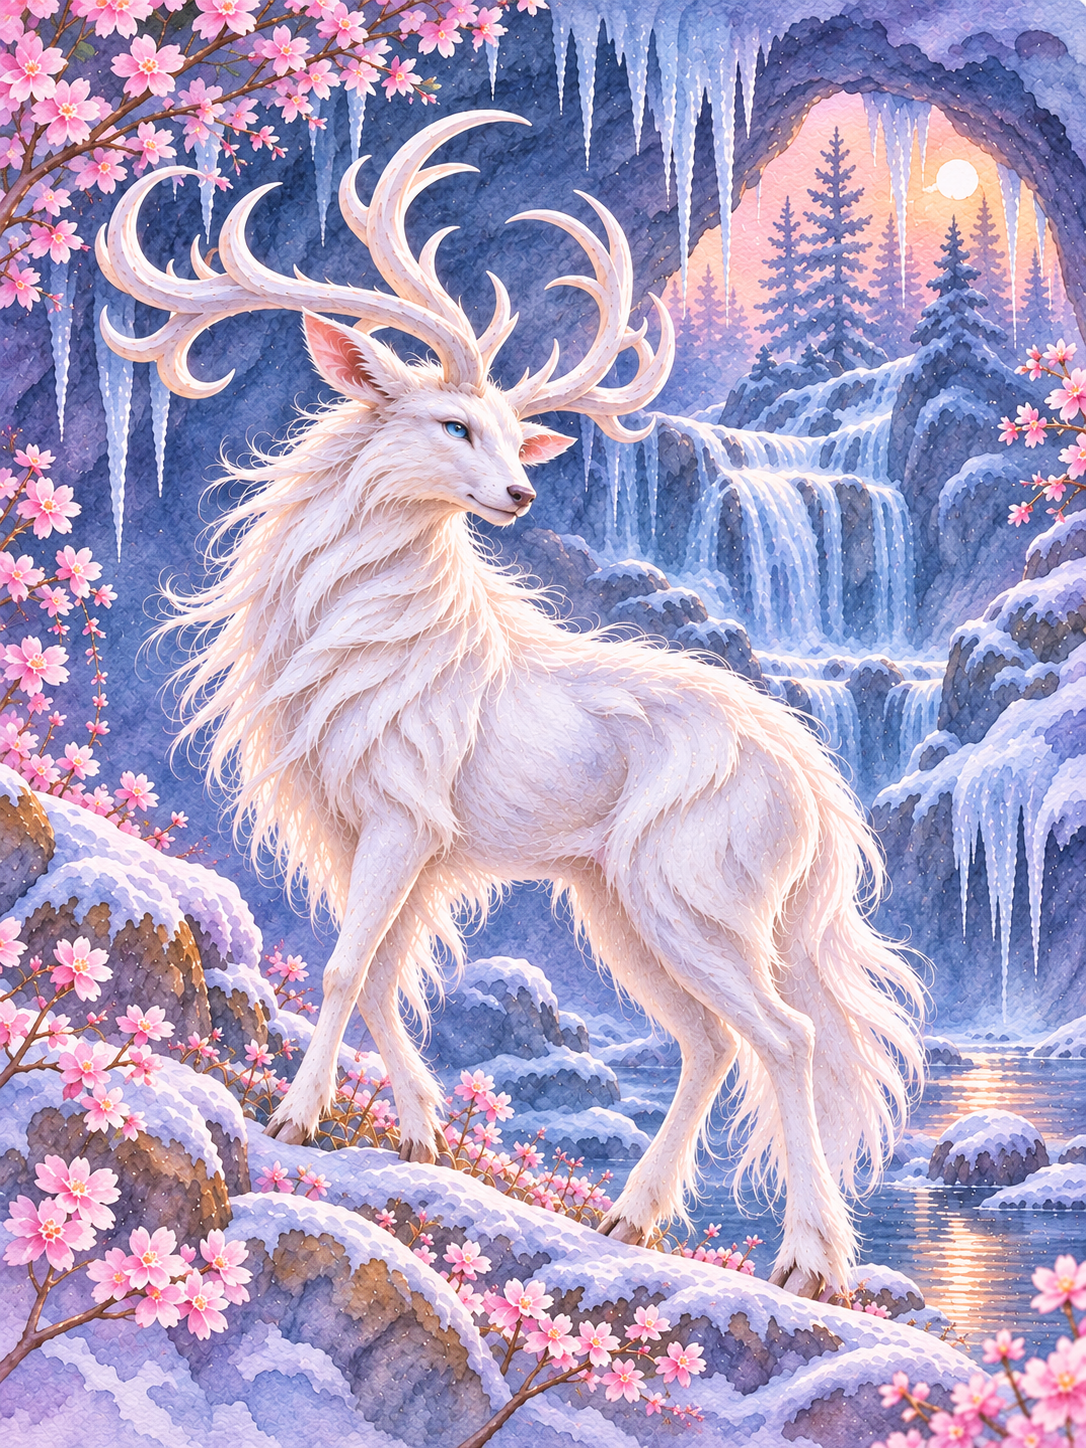
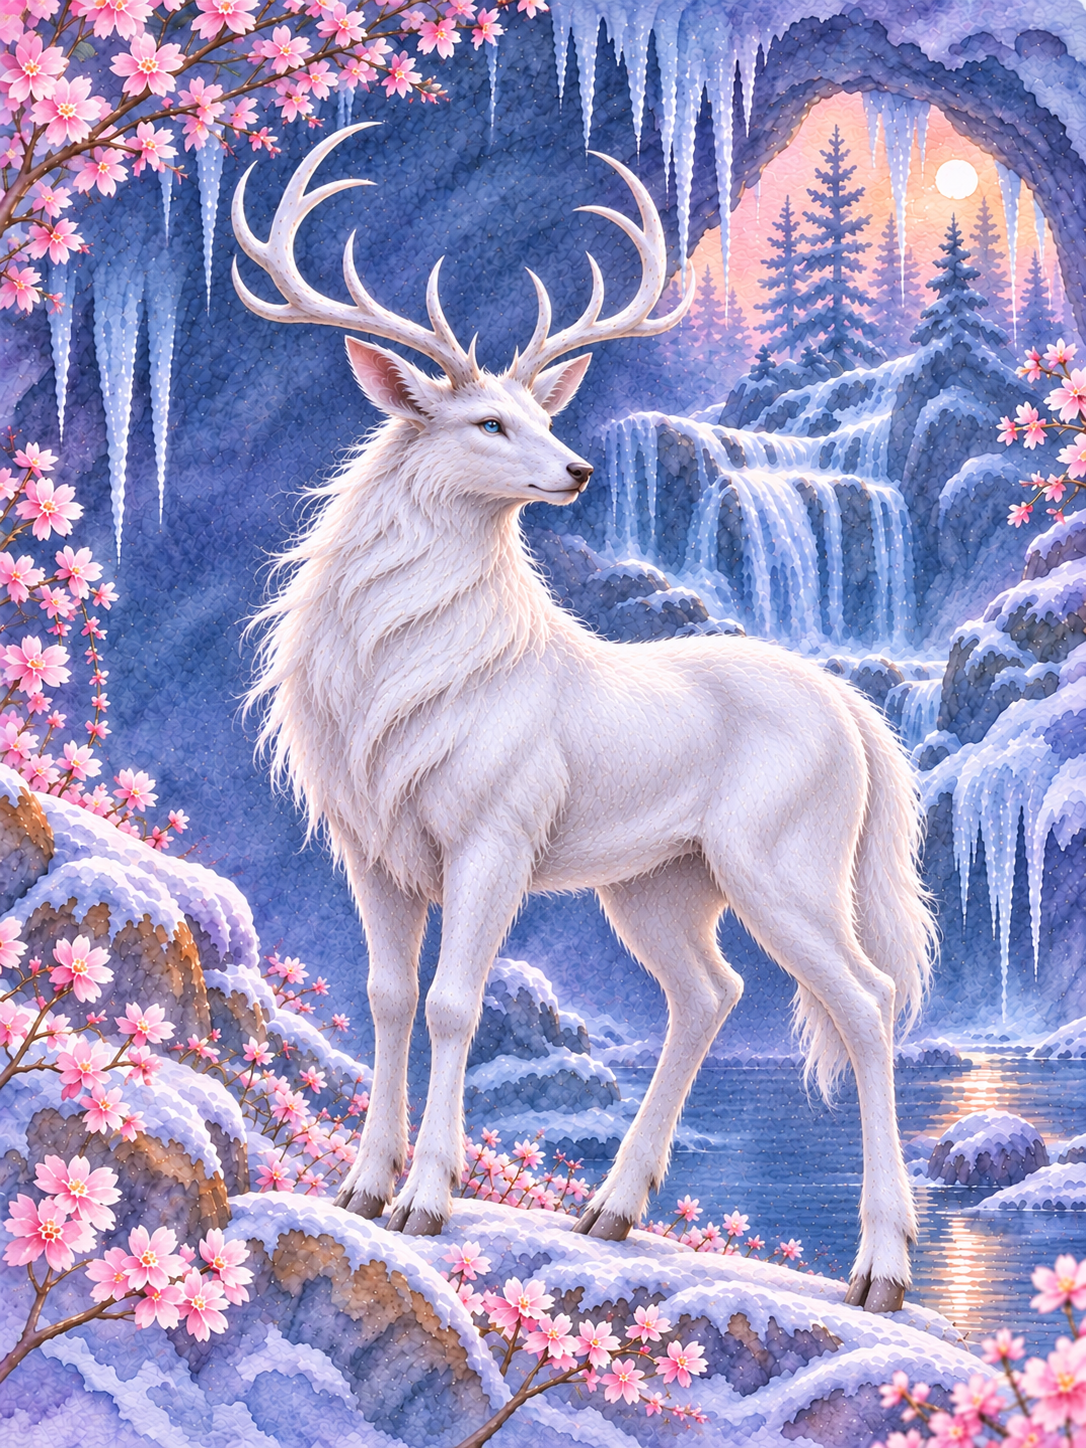
med forms complete

diff --git a/Personal Projects/virtual-reference-guide/rose-rime.html b/Personal Projects/virtual-reference-guide/rose-rime.html
@@ -619,10 +619,6 @@
 
                                 <div id="medium-forms" class="slide">
                                     <div class="slide-links">  
-                                        <a href="https://5e.tools/bestiary/boar-xmm.html" class="shape-link">
-                                            <img src="images/Rose_Rime/wild_shapes/boar-wc-portrait.png" alt="Boar">
-                                        </a>
-
                                         <a href="https://5e.tools/bestiary/cave-badger-oota.html" class="shape-link">
                                             <img src="images/Rose_Rime/wild_shapes/cave-badger-wc-portrait.png" alt="Cave Badger">
                                         </a>
@@ -634,15 +630,21 @@
                                         <a href="https://5e.tools/bestiary/deinonychus-mpmm.html" class="shape-link known">
                                             <img src="images/Rose_Rime/wild_shapes/deinonychus-wc-portrait.png" alt="Deinonychus">
                                         </a>
-
-                                        <a href="https://5e.tools/bestiary/fastieth-erlw.html" class="shape-link known">
+                                        
+                                        <a href="https://5e.tools/bestiary/fastieth-erlw.html" class="shape-link">
                                             <img src="images/Rose_Rime/wild_shapes/fastieth-wc-portrait.png" alt="Fastieth">
                                         </a>
 
-                                        <a href="https://5e.tools/bestiary/giant-badger-xmm.html" class="shape-link">
-                                            <img src="images/Rose_Rime/wild_shapes/giant-badger-wc-portrait.png" alt="Giant Badger">
-                                        </a> 
+                                        <a href="https://5e.tools/bestiary/pig-skt.html" class="shape-link">
+                                            <img src="images/Rose_Rime/wild_shapes/pig-wc-portrait-flipped.png" alt="Pig">
+                                        </a>
 
+                                        <a href="https://5e.tools/bestiary/wolf-xmm.html" class="shape-link">
+                                            <img src="images/Rose_Rime/wild_shapes/wolf-wc-portrait.png" alt="Wolf">
+                                        </a>
+                                    </div>
+
+                                    <div class="slide-links">
                                         <a href="https://5e.tools/bestiary/giant-weasel-xmm.html" class="shape-link">
                                             <img src="images/Rose_Rime/wild_shapes/giant-weasel-wc-portrait.png" alt="Giant Weasel">
                                         </a> 
@@ -652,52 +654,21 @@
                                         </a>
 
                                         <a href="https://5e.tools/bestiary/mountain-goat-idrotf.html" class="shape-link">
-                                            <img src="images/Rose_Rime/wild_shapes/goat-wc-portait.png" alt="Mountain Goat">
+                                            <img src="images/Rose_Rime/wild_shapes/goat-wc-portrait-flipped.png" alt="Mountain Goat">
                                         </a>
 
                                         <a href="https://5e.tools/bestiary/panther-xmm.html" class="shape-link">
                                             <img src="images/Rose_Rime/wild_shapes/panther-wc-portrait.png" alt="Panther">
                                         </a>
 
-                                        <a href="https://5e.tools/bestiary/pig-skt.html" class="shape-link">
-                                            <img src="images/Rose_Rime/wild_shapes/pig-wc-portrait.png" alt="Pig">
-                                        </a>
-
-                                        <a href="https://5e.tools/bestiary/sled-dog-rot.html" class="shape-link">
-                                            <img src="images/Rose_Rime/wild_shapes/sled-dog-wc-portrait.png" alt="Sled Dog">
-                                        </a>
-
-                                        <a href="https://5e.tools/bestiary/wolf-xmm.html" class="shape-link">
-                                            <img src="images/Rose_Rime/wild_shapes/wolf-wc-portrait.png" alt="Wolf">
-                                        </a>
-                                    </div>
-
-                                    <div class="slide-links">
-                                        
-
-                                        
-
-                                        
-
-                                       
-                                        
-                                    </div>
-
-                                    <div class="slide-links">
-                                        <a href="https://5e.tools/bestiary/amphisbaena-gos.html" class="shape-link">
-                                            <img src="images/Rose_Rime/wild_shapes/amphisbaena-wc-portrait.png" alt="Amphisbaena">
-                                        </a>
-
                                         <a href="https://5e.tools/bestiary/black-bear-xmm.html" class="shape-link">
-                                            <img src="images/Rose_Rime/wild_shapes/black-bear-wc-portrait.png" alt="black bear">
+                                            <img src="images/Rose_Rime/wild_shapes/black-bear-wc-portrait-flipped.png" alt="black bear">
                                         </a>
+                                    </div>
 
-                                        <a href="https://5e.tools/bestiary/dimetrodon-mpmm.html" class="shape-link known">
-                                            <img src="images/Rose_Rime/wild_shapes/dimetrodon-wc-portrait.png" alt="Dimetrodon">
-                                        </a>
-
-                                        <a href="https://5e.tools/bestiary/dolphin-mpmm.html" class="shape-link">
-                                            <img src="images/Rose_Rime/wild_shapes/dolphin-wc-portrait.png" alt="dolphin">
+                                    <div class="slide-links">
+                                        <a href="https://5e.tools/bestiary/dimetrodon-mpmm.html" class="shape-link">
+                                            <img src="images/Rose_Rime/wild_shapes/dimetrodon-wc-portrait-flipped.png" alt="Dimetrodon">
                                         </a>
 
                                         <a href="https://5e.tools/bestiary/giant-crab-xmm.html" class="shape-link">
@@ -709,25 +680,29 @@
                                         </a> 
                                         
                                         <a href="https://5e.tools/bestiary/giant-venomous-snake-xmm.html" class="shape-link">
-                                            <img src="images/Rose_Rime/wild_shapes/giant-venomous-snake-wc-portrait.png" alt="Giant Venomous Snake">
-                                        </a>
-
-                                        <a href="https://5e.tools/bestiary/reef-shark-xmm.html" class="shape-link">
-                                            <img src="images/Rose_Rime/wild_shapes/reef-shark-wc-portrait.png" alt="Reef Shark">
+                                            <img src="images/Rose_Rime/wild_shapes/giant-venomous-snake-wc-portrait-flipped.png" alt="Giant Venomous Snake">
                                         </a>
 
                                         <a href="https://5e.tools/bestiary/seal-idrotf.html" class="shape-link">
                                             <img src="images/Rose_Rime/wild_shapes/seal-wc-portrait.png" alt="Seal">
                                         </a> 
+
+                                        <a href="https://5e.tools/bestiary/reef-shark-xmm.html" class="shape-link">
+                                            <img src="images/Rose_Rime/wild_shapes/reef-shark-wc-portrait-flipped.png" alt="Reef Shark">
+                                        </a>
                                     </div>
 
                                     <div class="slide-links">
+                                        <a href="https://5e.tools/bestiary/dolphin-mpmm.html" class="shape-link">
+                                            <img src="images/Rose_Rime/wild_shapes/dolphin-wc-portrait-flipped.png" alt="dolphin">
+                                        </a>
+
                                         <a href="https://5e.tools/bestiary/giant-wasp-xmm.html" class="shape-link">
                                             <img src="images/Rose_Rime/wild_shapes/giant-wasp-wc-portrait.png" alt="Giant Wasp">
                                         </a> 
 
                                         <a href="https://5e.tools/bestiary/peacock-bgdia.html" class="shape-link">
-                                            <img src="images/Rose_Rime/wild_shapes/peacock-wc-portrait.png" alt="Peacock">
+                                            <img src="images/Rose_Rime/wild_shapes/peacock-wc-portrait-flipped.png" alt="Peacock">
                                         </a> 
                                     </div>
 

diff --git a/Personal Projects/virtual-reference-guide/css/character-sheet.css b/Personal Projects/virtual-reference-guide/css/character-sheet.css
@@ -302,7 +302,7 @@ body {
     grid-auto-flow: column;
     overflow-x: auto;
     margin: 0 3.5px;
-    height: 575px; 
+    height: 1000px; 
 
     /* Enable Scroll Snapping */
     scroll-snap-type: x mandatory;
